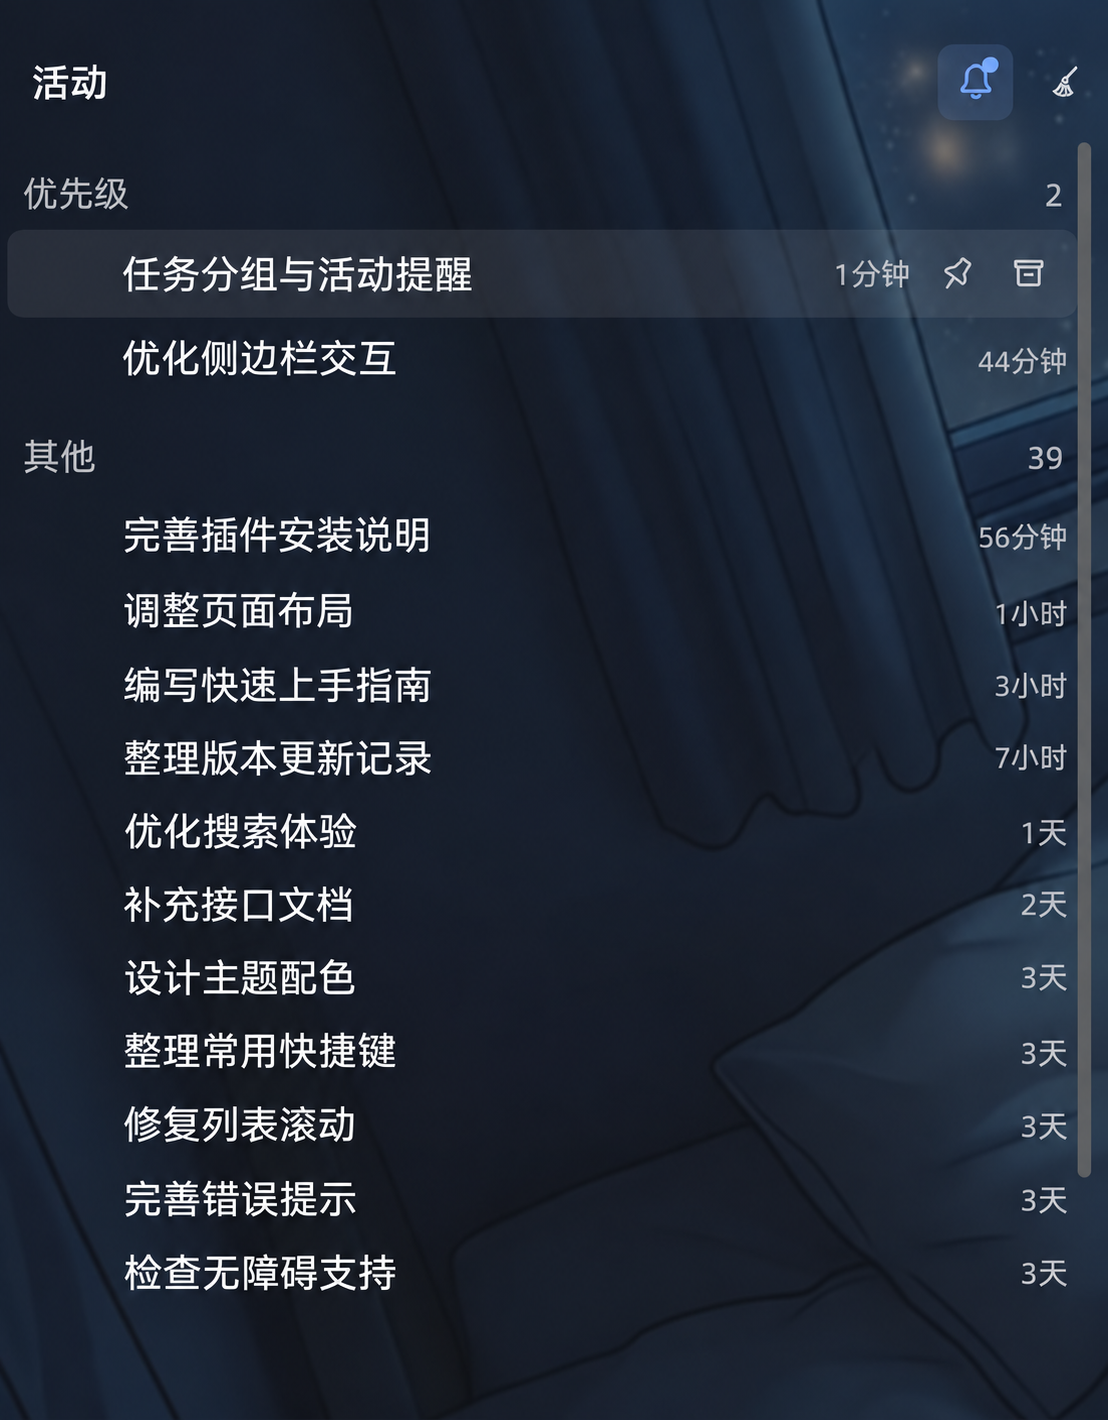
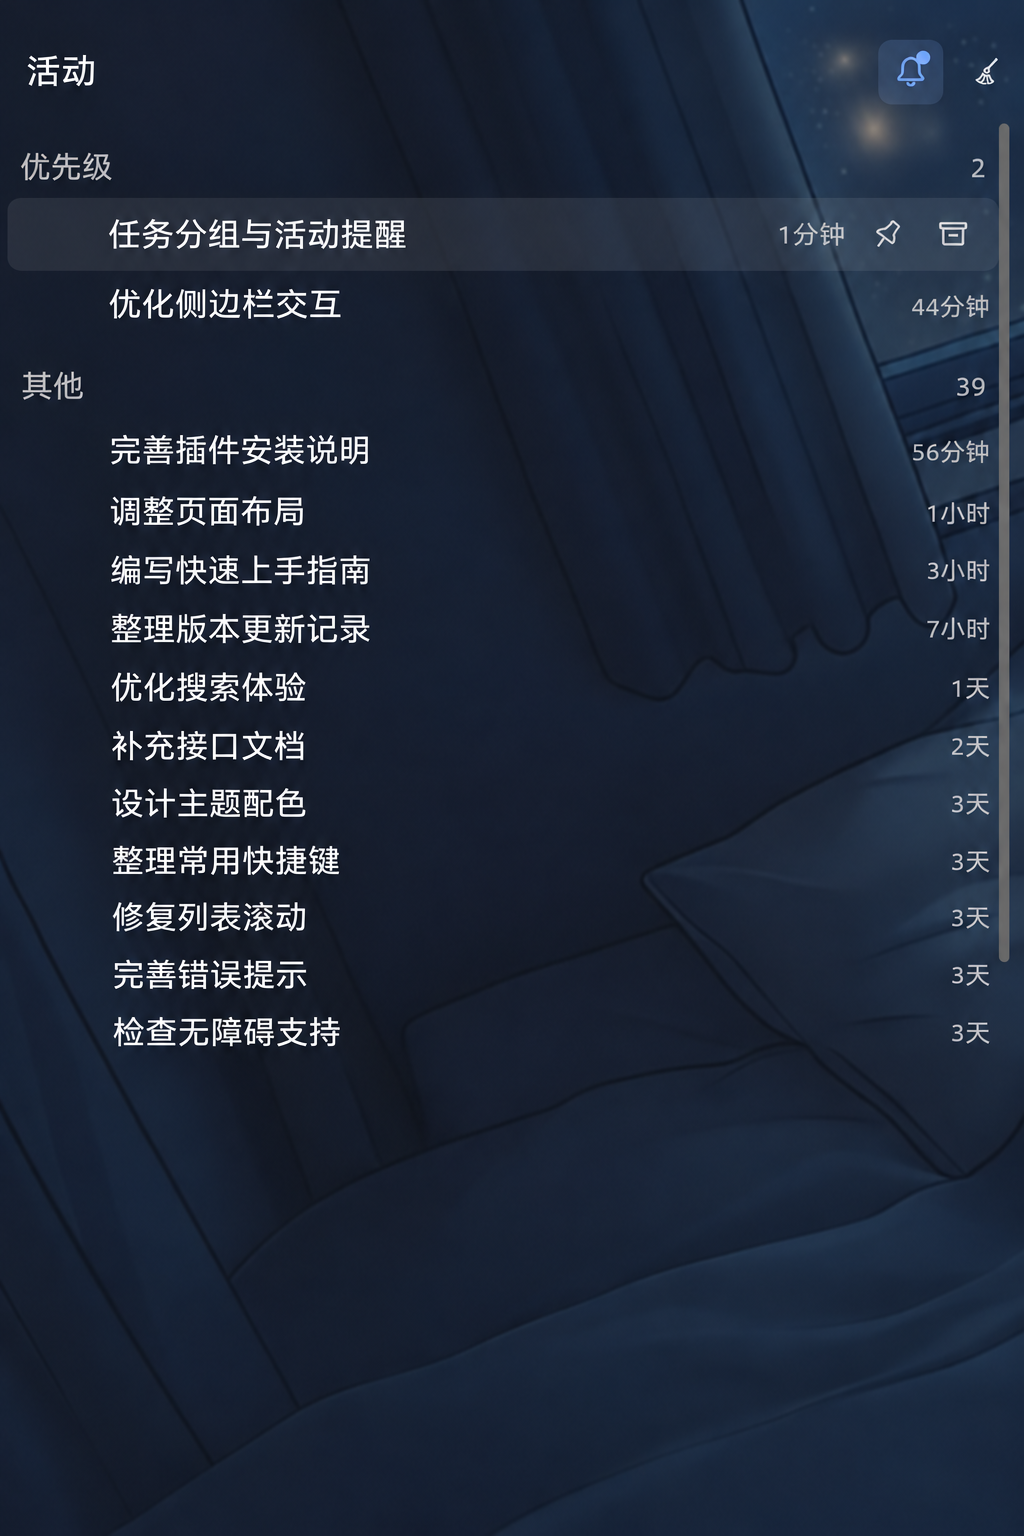
docs: standardize feature screenshots to matching dimensions

diff --git a/README.md b/README.md
@@ -30,11 +30,11 @@
   <tr>
     <td align="center" valign="top">
       <p>按主题归类，自由拖拽排序。</p>
-      <a href="docs/images/groups.png"><img src="docs/images/groups.png" width="73.6864%" alt="任务分组视图：用不同颜色区分插件与文档分组，组内展示相关任务。"></a>
+      <a href="docs/images/groups.png"><img src="docs/images/groups.png" width="380" alt="任务分组视图：用不同颜色区分插件与文档分组，组内展示相关任务。"></a>
     </td>
     <td align="center" valign="top">
       <p>集中查看运行中、待确认和未读会话。</p>
-      <a href="docs/images/activity.png"><img src="docs/images/activity.png" width="100%" alt="活动视图：需要关注的会话集中显示在优先级区域，其余会话显示在其他区域。"></a>
+      <a href="docs/images/activity.png"><img src="docs/images/activity.png" width="380" alt="活动视图：需要关注的会话集中显示在优先级区域，其余会话显示在其他区域。"></a>
     </td>
   </tr>
 </table>

diff --git a/README.en.md b/README.en.md
@@ -30,11 +30,11 @@ Group conversations the way you work, then check the bell when several tasks are
   <tr>
     <td align="center" valign="top">
       <p>Group by topic. Drag to arrange.</p>
-      <a href="docs/images/groups.png"><img src="docs/images/groups.png" width="73.6864%" alt="Group view with color-coded plugin and documentation groups and their tasks."></a>
+      <a href="docs/images/groups.png"><img src="docs/images/groups.png" width="380" alt="Group view with color-coded plugin and documentation groups and their tasks."></a>
     </td>
     <td align="center" valign="top">
       <p>Find running, waiting and unread conversations.</p>
-      <a href="docs/images/activity.png"><img src="docs/images/activity.png" width="100%" alt="Activity view with priority conversations at the top and other conversations below."></a>
+      <a href="docs/images/activity.png"><img src="docs/images/activity.png" width="380" alt="Activity view with priority conversations at the top and other conversations below."></a>
     </td>
   </tr>
 </table>
